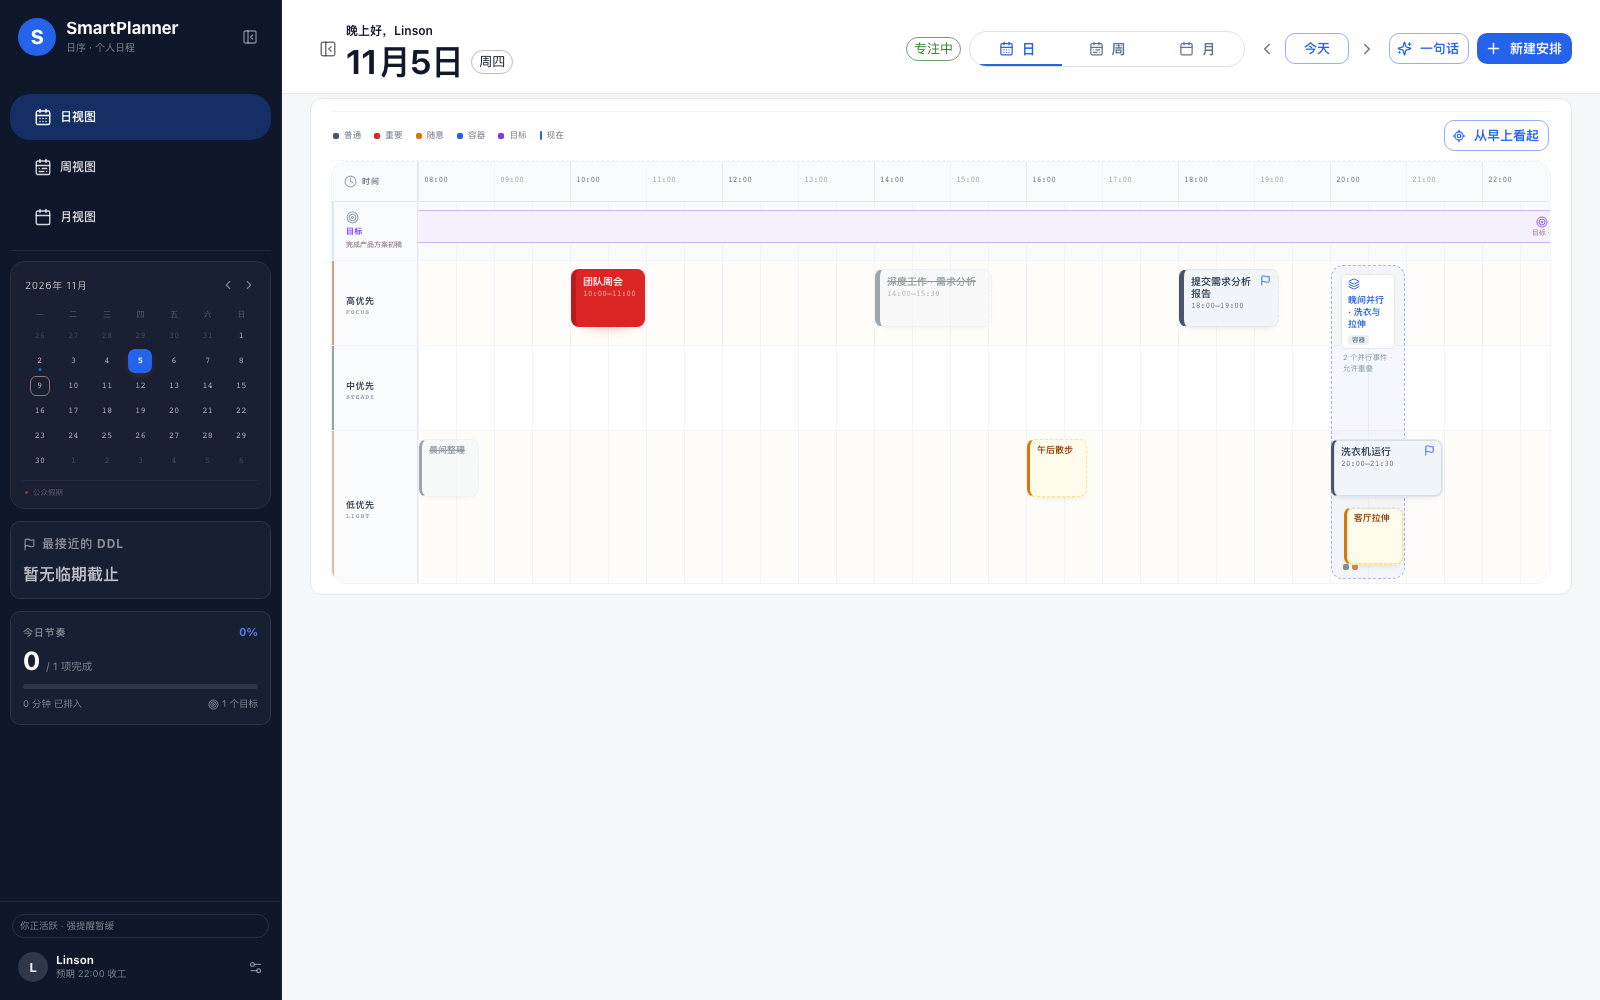
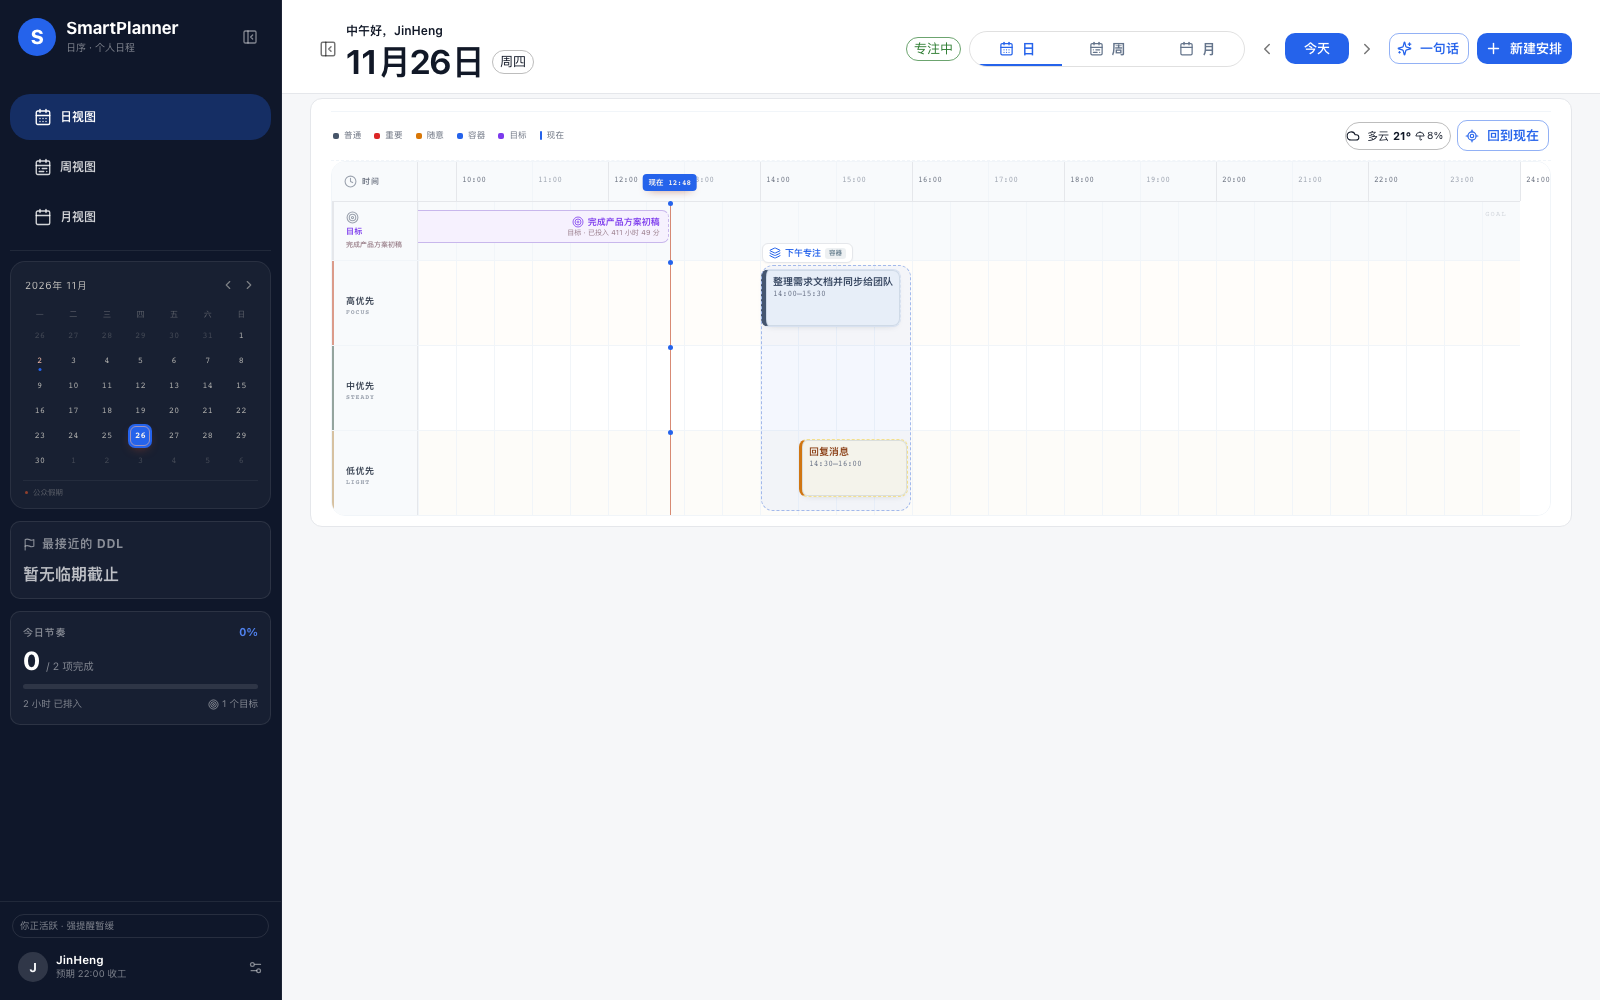
fix: keep child events inside container bounds

diff --git a/web/app/styles/views.css b/web/app/styles/views.css
@@ -442,7 +442,7 @@
   right: 0;
   bottom: 0;
   left: var(--day-gutter-width);
-  z-index: 1;
+  z-index: 3;
   pointer-events: none;
 }
 
@@ -455,45 +455,43 @@
   align-items: flex-start;
   gap: 4px;
   padding: 8px 9px;
-  overflow: hidden;
+  overflow: visible;
   border: 1px dashed rgba(76, 107, 129, 0.5);
   border-radius: 12px;
-  background:
-    repeating-linear-gradient(135deg, rgba(76, 107, 129, 0.045) 0 10px, transparent 10px 20px),
-    rgba(230, 238, 242, 0.5);
+  background: transparent;
   color: var(--blue);
   text-align: left;
-  pointer-events: auto;
-  z-index: 1;
+  pointer-events: none;
+  z-index: 3;
   transition: background 0.16s var(--ease), border-color 0.16s var(--ease);
 }
 
 .container-shell:hover {
   border-color: rgba(76, 107, 129, 0.72);
-  background:
-    repeating-linear-gradient(135deg, rgba(76, 107, 129, 0.06) 0 10px, transparent 10px 20px),
-    rgba(230, 238, 242, 0.72);
 }
 
 .container-shell.is-complete-goal {
   border-color: rgba(121, 74, 91, 0.42);
   border-style: solid;
-  background:
-    repeating-linear-gradient(135deg, rgba(121, 74, 91, 0.045) 0 10px, transparent 10px 20px),
-    rgba(242, 229, 233, 0.48);
   color: var(--plum);
 }
 
 .container-shell-head {
+  position: absolute;
+  top: -23px;
+  left: 0;
   display: inline-flex;
   align-items: center;
-  flex-wrap: wrap;
+  flex-wrap: nowrap;
   gap: 4px;
   max-width: 100%;
   padding: 3px 6px;
-  border: 1px solid rgba(255, 255, 255, 0.5);
+  border: 1px solid var(--line);
   border-radius: 6px;
-  background: rgba(255, 253, 248, 0.72);
+  background: var(--surface);
+  pointer-events: auto;
+  white-space: nowrap;
+  box-shadow: 0 1px 2px rgba(15, 23, 42, .04);
   color: var(--blue);
   font-size: 9px;
   font-weight: 700;
@@ -527,32 +525,6 @@
 .container-shell.is-complete-goal .container-shell-head em {
   background: rgba(121, 74, 91, 0.1);
   color: rgba(98, 56, 72, 0.75);
-}
-
-.container-shell-meta {
-  padding-left: 2px;
-  color: rgba(53, 86, 107, 0.6);
-  font-size: 7.5px;
-  line-height: 1.4;
-}
-
-.container-shell.is-complete-goal .container-shell-meta {
-  color: rgba(98, 56, 72, 0.6);
-}
-
-.container-shell-hint {
-  display: flex;
-  gap: 3px;
-  margin-top: auto;
-  padding-left: 2px;
-}
-
-.container-shell-hint i {
-  width: 6px;
-  height: 6px;
-  border-radius: 2px;
-  background: var(--type-color, var(--blue));
-  opacity: 0.65;
 }
 
 .day-lane-row {
@@ -1639,39 +1611,42 @@
   position: absolute;
   left: 1px;
   right: 1px;
-  z-index: 1;
-  display: flex;
-  flex-direction: column;
-  gap: 1px;
-  padding: 4px 5px;
-  overflow: hidden;
+  z-index: 3;
+  overflow: visible;
+  padding: 0;
   border: 1px dashed rgba(76, 107, 129, 0.5);
   border-radius: 7px;
-  background:
-    repeating-linear-gradient(135deg, rgba(76, 107, 129, 0.04) 0 7px, transparent 7px 14px),
-    rgba(230, 238, 242, 0.48);
+  background: transparent;
   color: var(--blue);
   text-align: left;
+  pointer-events: none;
 }
 
 .week-container-shell.is-complete-goal {
   border-color: rgba(121, 74, 91, 0.4);
-  background:
-    repeating-linear-gradient(135deg, rgba(121, 74, 91, 0.04) 0 7px, transparent 7px 14px),
-    rgba(242, 229, 233, 0.48);
+  background: transparent;
   color: var(--plum);
 }
 
 .week-container-head {
+  position: absolute;
+  top: -16px;
+  left: 0;
   display: inline-flex;
   align-items: center;
   gap: 3px;
+  max-width: 100%;
+  padding: 2px 4px;
   overflow: hidden;
+  border: 1px solid var(--line);
+  border-radius: 4px;
+  background: var(--surface);
   font-size: 8px;
   font-weight: 700;
   line-height: 1.3;
   white-space: nowrap;
   text-overflow: ellipsis;
+  pointer-events: auto;
 }
 
 .week-container-head svg {

diff --git a/web/components/day-view.tsx b/web/components/day-view.tsx
@@ -188,6 +188,9 @@ export function DayView({ events, date, now, holiday, weatherDay, loading, onCre
                         now={now}
                         onOpen={onOpenEvent}
                         onMove={onMoveEvent}
+                        containerEndMin={segment.event.parentId
+                          ? layout.containers.find((container) => container.event.id === segment.event.parentId)?.endMin ?? null
+                          : null}
                       />
                     ))}
                   </div>
@@ -200,8 +203,6 @@ export function DayView({ events, date, now, holiday, weatherDay, loading, onCre
                 <ContainerShell
                   key={`shell-${segment.event.id}`}
                   segment={segment}
-                  events={events}
-                  now={now}
                   onOpen={onOpenEvent}
                 />
               ))}
@@ -260,11 +261,13 @@ function EventBlock({
   now,
   onOpen,
   onMove,
+  containerEndMin,
 }: {
   segment: DaySegment;
   now: Date;
   onOpen: (event: ScheduleEvent) => void;
   onMove: (event: ScheduleEvent, start: Date, end: Date) => void;
+  containerEndMin: number | null;
 }) {
   const { event } = segment;
   const [dragOffset, setDragOffset] = useState(0);
@@ -272,9 +275,13 @@ function EventBlock({
   const dragRef = useRef<{ startX: number; startAt: Date; endAt: Date; moved: boolean } | null>(null);
   const suppressClickRef = useRef(false);
   const durationWidth = ((segment.endMin - segment.startMin) / 60) * HOUR_WIDTH - 2;
-  const width = Math.max(46, durationWidth, estimateTitleWidth(event.title));
-  const extended = width > durationWidth + 1;
   const left = (segment.startMin / 60) * HOUR_WIDTH + 1;
+  const desiredWidth = Math.max(46, durationWidth, estimateTitleWidth(event.title));
+  const containerLimit = containerEndMin === null
+    ? Number.POSITIVE_INFINITY
+    : (containerEndMin / 60) * HOUR_WIDTH - left - 4;
+  const width = Math.max(20, Math.min(desiredWidth, containerLimit));
+  const extended = width > durationWidth + 1;
   const top = 8 + segment.row * 68;
   const casualActive = isCasualActive(event, now);
   const draggable = !segment.continuesBefore && !segment.continuesAfter && event.status !== "DONE" && event.status !== "CANCELLED";
@@ -414,19 +421,14 @@ function GoalBlock({
 
 function ContainerShell({
   segment,
-  events,
-  now,
   onOpen,
 }: {
   segment: DaySegment;
-  events: ScheduleEvent[];
-  now: Date;
   onOpen: (event: ScheduleEvent) => void;
 }) {
   const { event } = segment;
   const left = (segment.startMin / 60) * HOUR_WIDTH + 1;
   const width = Math.max(24, ((segment.endMin - segment.startMin) / 60) * HOUR_WIDTH - 2);
-  const children = events.filter((item) => item.parentId === event.id);
   return (
     <button
       type="button"
@@ -443,16 +445,6 @@ function ContainerShell({
         {event.goalCompleted ? <Target size={12} /> : <Layers size={12} />}
         <span>{event.title}</span>
         <em>{event.goalCompleted ? "目标已完成" : "容器"}</em>
-      </span>
-      <span className="container-shell-meta">
-        {event.goalCompleted
-          ? `实际投入 ${eventElapsed(event, now)} · 可继续放入事件`
-          : `${children.length} 个并行事件 · 允许重叠`}
-      </span>
-      <span className="container-shell-hint">
-        {children.map((child) => (
-          <i key={child.id} className={`type-${child.type.toLowerCase()}`} />
-        ))}
       </span>
     </button>
   );

diff --git a/web/components/week-view.tsx b/web/components/week-view.tsx
@@ -185,7 +185,6 @@ export function WeekView({ events, date, now, holidays, weatherByDate, onCreateA
                       const event = segment.event;
                       const top = (segment.startMin / 60) * HOUR_HEIGHT;
                       const height = Math.max(30, ((segment.endMin - segment.startMin) / 60) * HOUR_HEIGHT - 2);
-                      const childCount = events.filter((item) => item.parentId === event.id).length;
                       return (
                         <button
                           key={`container-${event.id}`}
@@ -202,9 +201,6 @@ export function WeekView({ events, date, now, holidays, weatherByDate, onCreateA
                             {event.goalCompleted ? <Target size={10} /> : <Layers size={10} />}
                             {event.title}
                           </span>
-                          <span className="week-container-meta">
-                            {event.goalCompleted ? "目标已完成" : `${childCount} 个并行事件`}
-                          </span>
                         </button>
                       );
                     })}
@@ -215,8 +211,12 @@ export function WeekView({ events, date, now, holidays, weatherByDate, onCreateA
                     ) : null}
                     {regularEntries.map(({ segment, placement }) => {
                       const event = segment.event;
+                      const parent = event.parentId
+                        ? entries.find(({ segment: parentSegment }) => parentSegment.event.id === event.parentId)
+                        : null;
+                      const visibleEndMin = parent ? Math.min(segment.endMin, parent.segment.endMin) : segment.endMin;
                       const top = (segment.startMin / 60) * HOUR_HEIGHT;
-                      const height = Math.max(22, ((segment.endMin - segment.startMin) / 60) * HOUR_HEIGHT - 2);
+                      const height = Math.max(22, ((visibleEndMin - segment.startMin) / 60) * HOUR_HEIGHT - 2);
                       const left = (placement.column / placement.columnCount) * 100;
                       const width = (1 / placement.columnCount) * 100;
                       return (

diff --git a/docs/bug-reports/BUG-006.md b/docs/bug-reports/BUG-006.md
@@ -1,0 +1,38 @@
+# BUG-006 容器边框未覆盖子事件结尾，视觉上像子事件超出容器
+
+- 报告人：Gaozhuoyi
+- 发现时间：2026-11-26 10:15
+- 严重程度：中
+- 优先级：P2
+- 状态：已修复
+- 复现概率：必现
+
+## 环境
+
+- macOS
+- Chrome 最新版
+- SmartPlanner Web
+- 日视图、周视图
+
+## 复现步骤
+
+1. 创建一个 14:00-16:00 的容器事件。
+2. 在容器内创建一个或多个与容器时间范围重叠的子事件。
+3. 为子事件设置较长标题。
+4. 观察日视图中容器右边框与子事件气泡的右侧边界。
+
+## 预期结果
+
+容器边框完整包住子事件，子事件不越过容器右边框；容器与子事件的时间范围保持一致。
+
+## 实际结果
+
+子事件为了显示完整标题被撑宽，右侧覆盖了容器边框，导致容器看起来只框住了开头，没有框住结尾。
+
+## 影响
+
+用户会误以为子事件超出了容器范围，容器与子事件的关系在视觉上不成立。
+
+## 修复
+
+日视图中把子事件宽度限制在父容器右边界以内，并在右边界前留出间距；周视图同步限制子事件高度不超过父容器结束位置。
